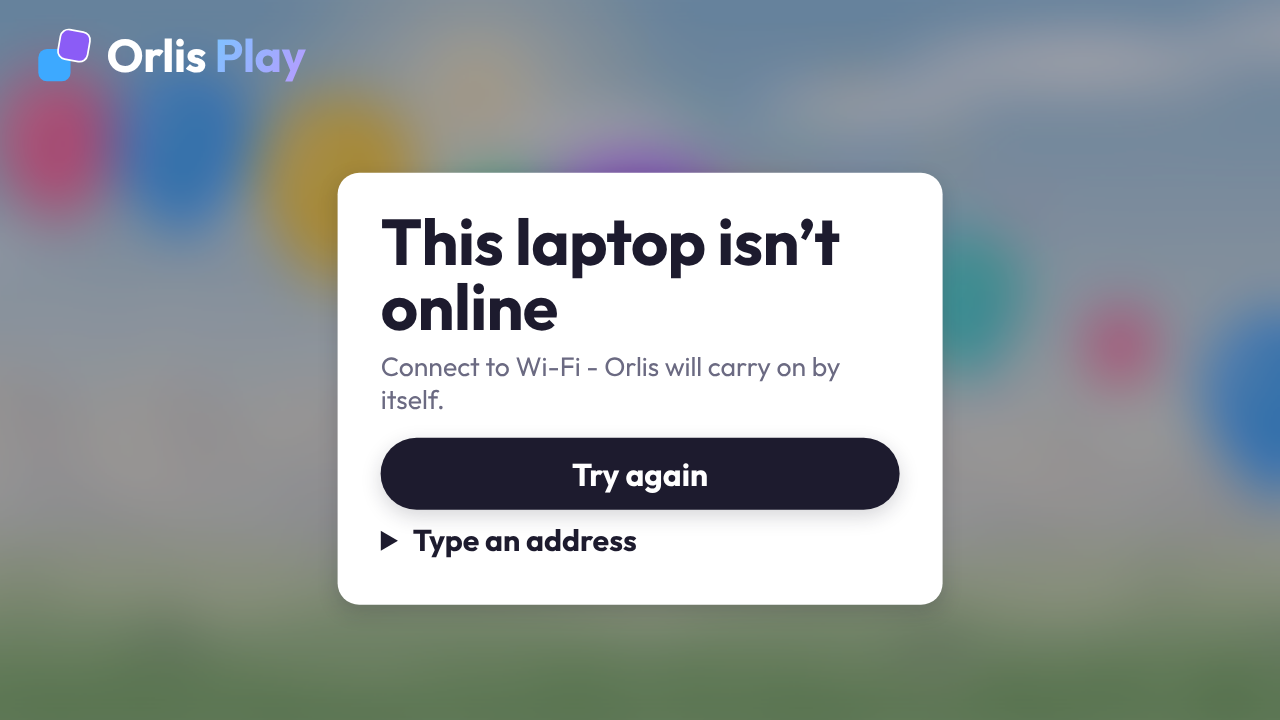
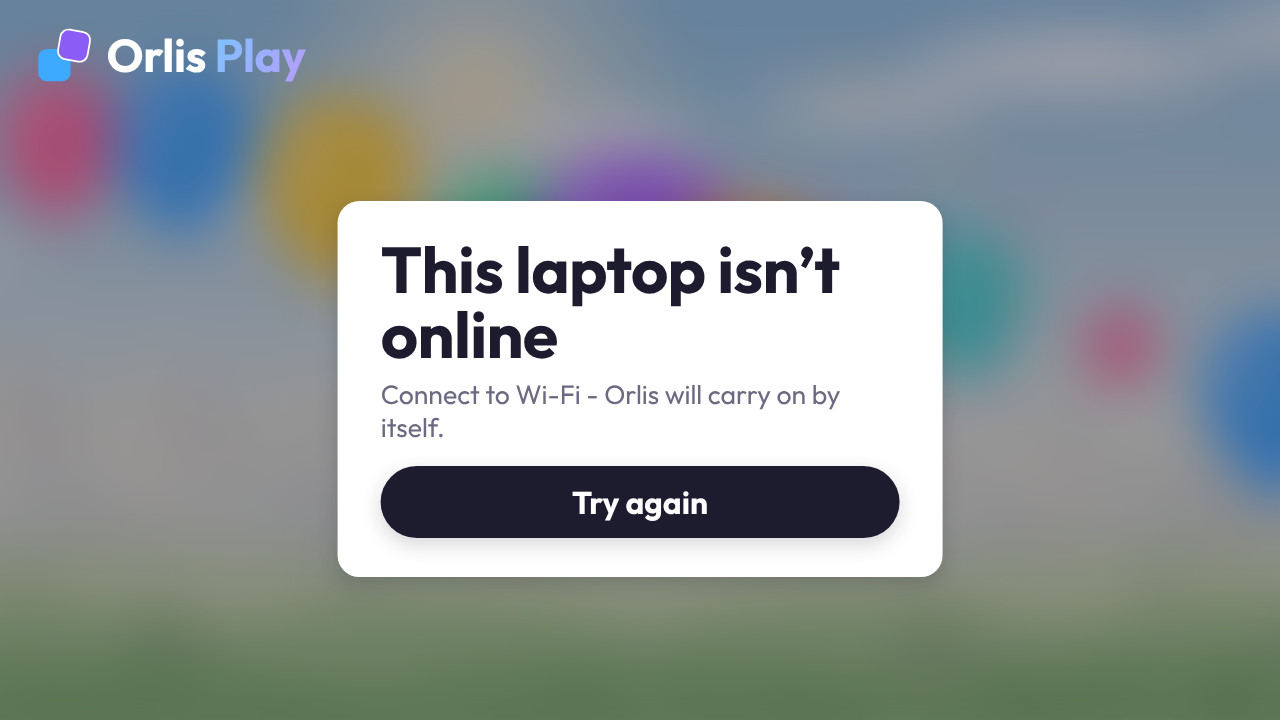
Can't-connect screen: no 'Type an address' (owner)
Claude-Session: https://claude.ai/code/session_01H7pxTnxTukKeeYRVqvmnkU

Changed region(s): [[0.25, 0.2139, 0.75, 0.7639], [0.25, 0.7944, 0.75, 0.8556]]

diff --git a/app/src/ui/account.js b/app/src/ui/account.js
@@ -283,20 +283,14 @@ export function welcome(done, { auto = true, glide = false, onBack = null } = {}
     show(h('h2', '', 'Which Orlis server?'), ...list.map(sv => onPick(button(sv.name, 'wide'), () => connect(sv))));
   }
   /* Not found: most likely no internet just now. It keeps trying by itself,
-     and connects as soon as the server answers; or type its address. */
+     and connects as soon as the server answers (no typed address: owner, 2026-11-24). */
   async function notFound(){
     let words = notFoundWords(await net.online());
-    const addr = form([['url', 'Server address', 'text']], 'Connect', async ({ url }) => {
-      const u = serverUrl(url);
-      const r = await hello(u);
-      connect({ url: u, id: r.id, name: r.name, setup: r.setup, invite: r.invite !== false });
-    });
-    const typed = h('details', 'setuptype'); typed.append(h('summary', '', 'Type an address'), addr);
     const head = h('h2', '', words.heading), lede = h('p', 'lede', words.lede);
     /* asleep: Cubo dozing above the heading, eyes shut, a few z's drifting up (owner, 2026-11-24) */
     const nap = sleepyCubo(); nap.hidden = !words.asleep;
     show(nap, head, lede,
-      msg, onPick(button('Try again', 'wide'), () => { sfx.select(); find(); }), typed);
+      msg, onPick(button('Try again', 'wide'), () => { sfx.select(); find(); }));
     const me = card.lastChild;
     const tick = async () => {
       if (!s.contains(me)) return;
